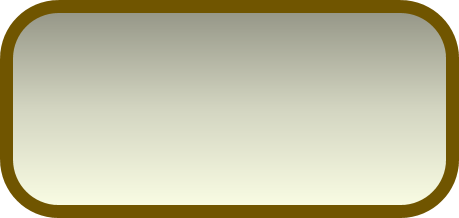
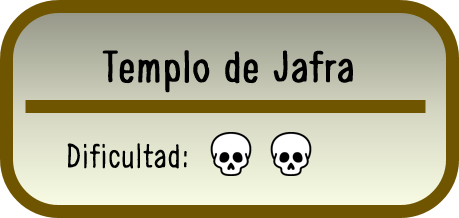
Add map dungeon images corrected

diff --git a/src/finalproject/FinalProject.java b/src/finalproject/FinalProject.java
@@ -175,17 +175,17 @@ public class FinalProject extends Applet implements Runnable, KeyListener,
         }
         // Dungeon buttons
         for(int iI = 2; iI < 5; iI ++){
-            arrStrMapa[iI][0] = "btnDungeon_"+iI+"_0.png";
-            arrStrMapa[iI][1] = "btnDungeon_"+iI+"_1.png";
+            arrStrMapa[iI][0] = "btnMapa_"+iI+"_0.png";
+            arrStrMapa[iI][1] = "btnMapa_"+iI+"_1.png";
         }
         
         // All dungeon buttons have a specific location
-        arrBtnMapa[2] = new msf_Button(25,100,
-                    182,49,arrStrMapa[2][0]);
-        arrBtnMapa[3] = new msf_Button(iAppletWidth - 235, 150,
-                    182,49,arrStrMapa[3][0]);
-        arrBtnMapa[4] = new msf_Button(iAppletWidth - 230, 300,
-                    182,49,arrStrMapa[4][0]);
+        arrBtnMapa[2] = new msf_Button(25,20,
+                    212,100,arrStrMapa[2][0]);
+        arrBtnMapa[3] = new msf_Button(iAppletWidth - 235, 130,
+                    212,100,arrStrMapa[3][0]);
+        arrBtnMapa[4] = new msf_Button(iAppletWidth - 580, 250,
+                    212,100,arrStrMapa[4][0]);
         
         // Initialize option menu
         // option buttons
